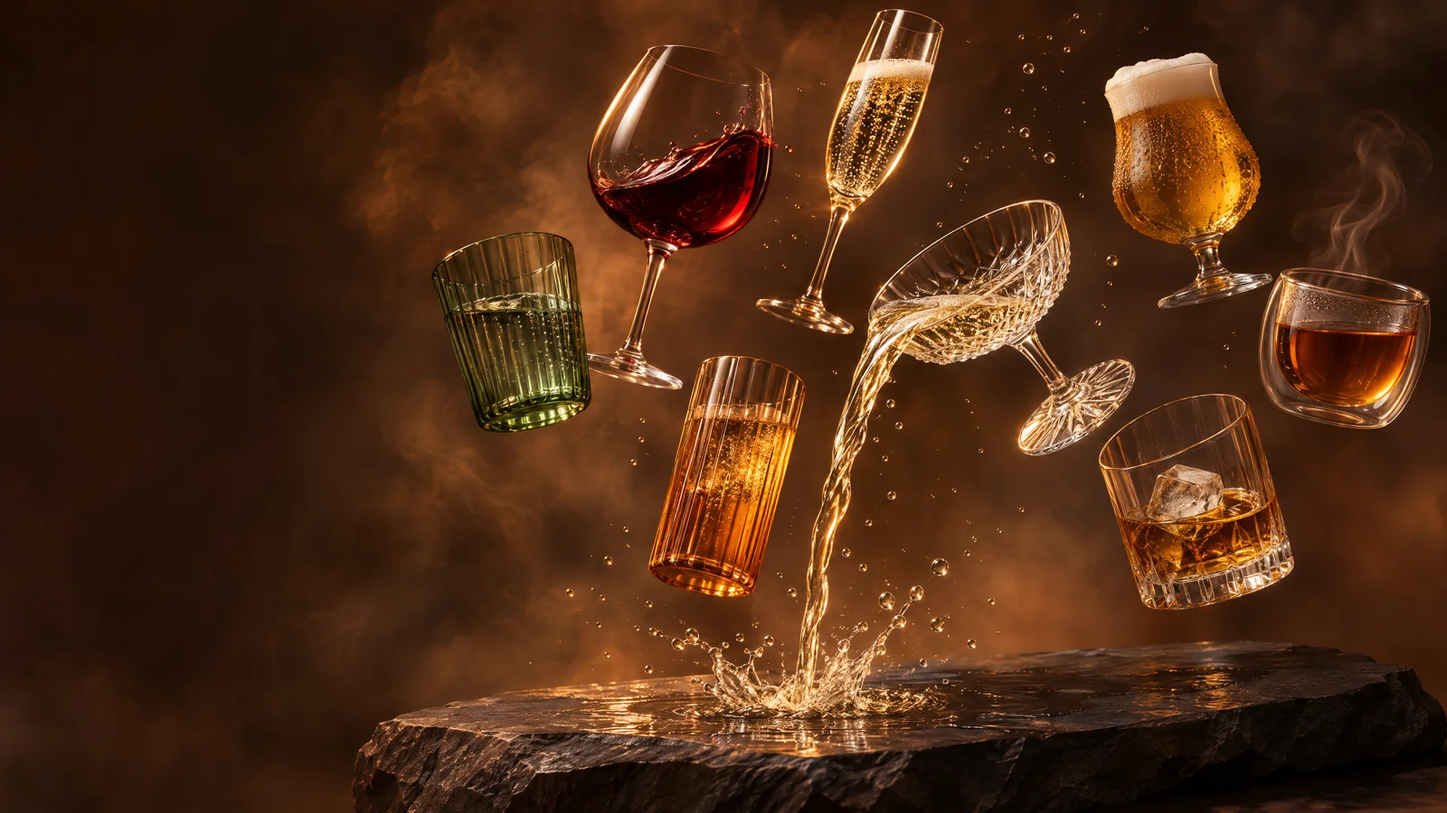
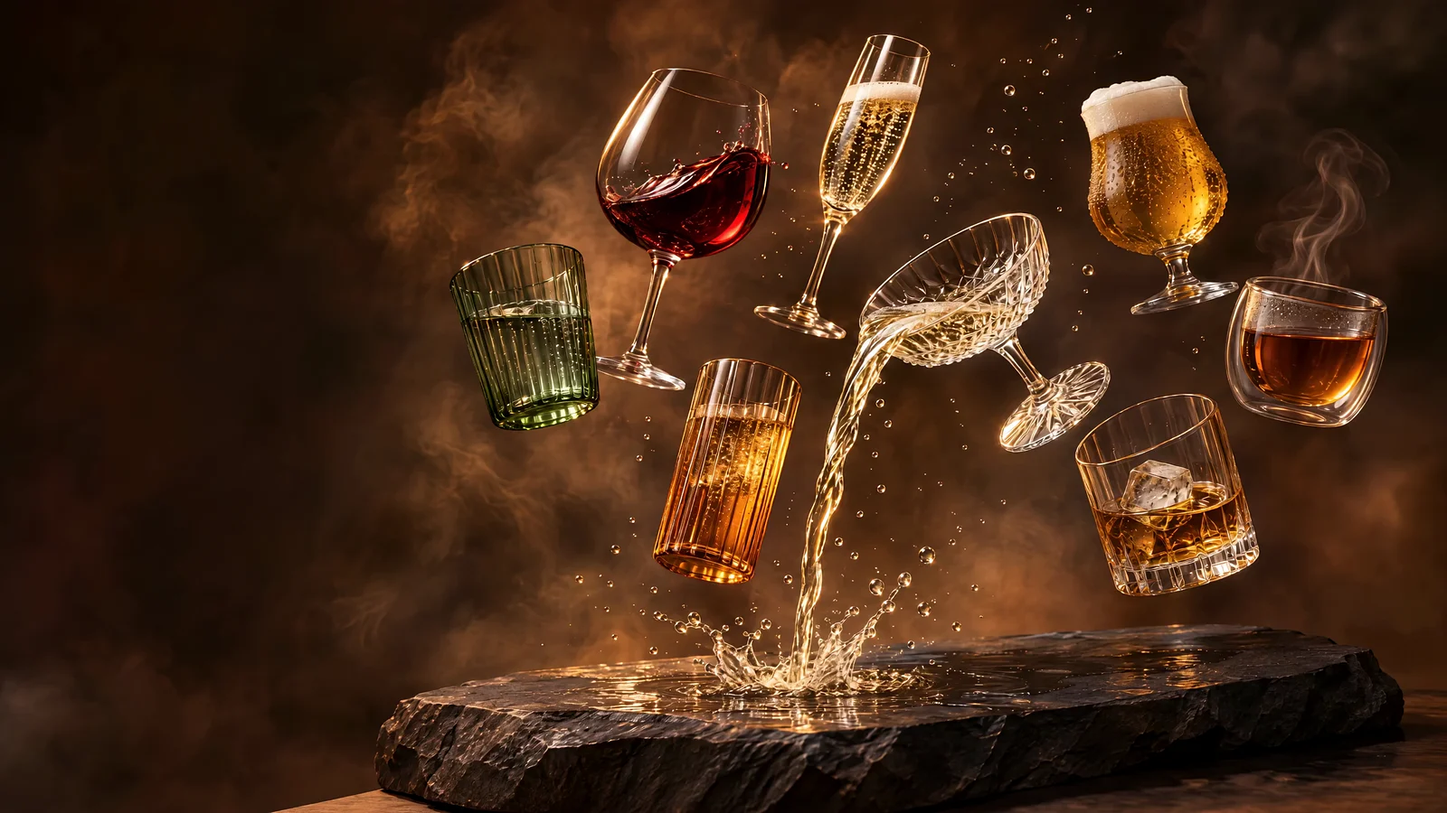
Startbilden tas från filmens första ruta så att inget zoomar vid start
Filmmodellen ramade in scenen lite annorlunda än startbilden. När filmen tonades in såg det ut som en inzoomning. Nu är startbilderna (dator och mobil) gjorda från filmens första ruta.

Claude-Session: https://claude.ai/code/session_01Kh8e8VCmHbvD3TCw4dPuxa

diff --git a/docs/404.html b/docs/404.html
@@ -26,8 +26,8 @@
 <link rel="preconnect" href="https://fonts.googleapis.com">
 <link rel="preconnect" href="https://fonts.gstatic.com" crossorigin>
 <link href="https://fonts.googleapis.com/css2?family=Fraunces:ital,opsz,wght@0,9..144,300;0,9..144,400;0,9..144,500;1,9..144,400&family=Hanken+Grotesk:wght@400;500;600&family=IBM+Plex+Mono:wght@400;500&display=swap" rel="stylesheet">
-<link rel="preload" as="image" href="assets/hero-start-m.webp?v=6" media="(max-aspect-ratio: 1/1)">
-<link rel="preload" as="image" href="assets/hero-start-1600.webp?v=6" imagesrcset="assets/hero-start-1600.webp?v=6 1600w, assets/hero-start.webp?v=6 2688w" imagesizes="(max-aspect-ratio: 16/9) 178vh, 100vw" media="(min-aspect-ratio: 1/1)">
+<link rel="preload" as="image" href="assets/hero-start-m.webp?v=7" media="(max-aspect-ratio: 1/1)">
+<link rel="preload" as="image" href="assets/hero-start-1600.webp?v=7" imagesrcset="assets/hero-start-1600.webp?v=7 1600w, assets/hero-start.webp?v=7 2688w" imagesizes="(max-aspect-ratio: 16/9) 178vh, 100vw" media="(min-aspect-ratio: 1/1)">
 <script>try{if(localStorage.getItem("skal-lang")==="en"){document.documentElement.lang="en";document.documentElement.classList.add("lang-wait")}}catch(e){}</script>
 <script>try{var s=localStorage.getItem("skal-skin");if(s)document.documentElement.dataset.skin=s}catch(e){}</script>
 <script type="application/ld+json">{"@context":"https://schema.org","@type":"Organization","name":"SKÅL & CO","url":"https://adamkajlindberg-22.github.io/Sk-l-Co/","description":"Glas, koppar och karaffer från Europas glasbruk. Visningsversion."}</script>
@@ -72,7 +72,7 @@
 <section id="hero" aria-label="SKÅL & CO">
   <div class="hero-stage">
     <div class="hero-media">
-      <picture><source media="(max-aspect-ratio: 1/1)" srcset="assets/hero-start-m.webp?v=6"><img class="start" src="assets/hero-start-1600.webp?v=6" srcset="assets/hero-start-1600.webp?v=6 1600w, assets/hero-start.webp?v=6 2688w" sizes="(max-aspect-ratio: 16/9) 178vh, 100vw" alt="Åtta olika glas med vin, bubbel, whisky, öl och te svävar i luften medan en kupa häller ut bubbel på en mörk sten" fetchpriority="high"></picture>
+      <picture><source media="(max-aspect-ratio: 1/1)" srcset="assets/hero-start-m.webp?v=7"><img class="start" src="assets/hero-start-1600.webp?v=7" srcset="assets/hero-start-1600.webp?v=7 1600w, assets/hero-start.webp?v=7 2688w" sizes="(max-aspect-ratio: 16/9) 178vh, 100vw" alt="Åtta olika glas med vin, bubbel, whisky, öl och te svävar i luften medan en kupa häller ut bubbel på en mörk sten" fetchpriority="high"></picture>
       <picture><source media="(max-aspect-ratio: 1/1)" srcset="assets/hero-end-m.webp?v=6"><img class="end" src="assets/hero-end.webp?v=6" alt="" aria-hidden="true"></picture>
       <video id="heroVideo" muted playsinline preload="none" aria-hidden="true"></video>
     </div>

diff --git a/docs/glas/anga/index.html b/docs/glas/anga/index.html
@@ -26,8 +26,8 @@
 <link rel="preconnect" href="https://fonts.googleapis.com">
 <link rel="preconnect" href="https://fonts.gstatic.com" crossorigin>
 <link href="https://fonts.googleapis.com/css2?family=Fraunces:ital,opsz,wght@0,9..144,300;0,9..144,400;0,9..144,500;1,9..144,400&family=Hanken+Grotesk:wght@400;500;600&family=IBM+Plex+Mono:wght@400;500&display=swap" rel="stylesheet">
-<link rel="preload" as="image" href="assets/hero-start-m.webp?v=6" media="(max-aspect-ratio: 1/1)">
-<link rel="preload" as="image" href="assets/hero-start-1600.webp?v=6" imagesrcset="assets/hero-start-1600.webp?v=6 1600w, assets/hero-start.webp?v=6 2688w" imagesizes="(max-aspect-ratio: 16/9) 178vh, 100vw" media="(min-aspect-ratio: 1/1)">
+<link rel="preload" as="image" href="assets/hero-start-m.webp?v=7" media="(max-aspect-ratio: 1/1)">
+<link rel="preload" as="image" href="assets/hero-start-1600.webp?v=7" imagesrcset="assets/hero-start-1600.webp?v=7 1600w, assets/hero-start.webp?v=7 2688w" imagesizes="(max-aspect-ratio: 16/9) 178vh, 100vw" media="(min-aspect-ratio: 1/1)">
 <script>try{if(localStorage.getItem("skal-lang")==="en"){document.documentElement.lang="en";document.documentElement.classList.add("lang-wait")}}catch(e){}</script>
 <script>try{var s=localStorage.getItem("skal-skin");if(s)document.documentElement.dataset.skin=s}catch(e){}</script>
 <script type="application/ld+json">{"@context":"https://schema.org","@type":"Organization","name":"SKÅL & CO","url":"https://adamkajlindberg-22.github.io/Sk-l-Co/","description":"Glas, koppar och karaffer från Europas glasbruk. Visningsversion."}</script>
@@ -74,7 +74,7 @@
 <section id="hero" aria-label="SKÅL & CO">
   <div class="hero-stage">
     <div class="hero-media">
-      <picture><source media="(max-aspect-ratio: 1/1)" srcset="assets/hero-start-m.webp?v=6"><img class="start" src="assets/hero-start-1600.webp?v=6" srcset="assets/hero-start-1600.webp?v=6 1600w, assets/hero-start.webp?v=6 2688w" sizes="(max-aspect-ratio: 16/9) 178vh, 100vw" alt="Åtta olika glas med vin, bubbel, whisky, öl och te svävar i luften medan en kupa häller ut bubbel på en mörk sten" fetchpriority="high"></picture>
+      <picture><source media="(max-aspect-ratio: 1/1)" srcset="assets/hero-start-m.webp?v=7"><img class="start" src="assets/hero-start-1600.webp?v=7" srcset="assets/hero-start-1600.webp?v=7 1600w, assets/hero-start.webp?v=7 2688w" sizes="(max-aspect-ratio: 16/9) 178vh, 100vw" alt="Åtta olika glas med vin, bubbel, whisky, öl och te svävar i luften medan en kupa häller ut bubbel på en mörk sten" fetchpriority="high"></picture>
       <picture><source media="(max-aspect-ratio: 1/1)" srcset="assets/hero-end-m.webp?v=6"><img class="end" src="assets/hero-end.webp?v=6" alt="" aria-hidden="true"></picture>
       <video id="heroVideo" muted playsinline preload="none" aria-hidden="true"></video>
     </div>

diff --git a/docs/glas/bolja/index.html b/docs/glas/bolja/index.html
@@ -26,8 +26,8 @@
 <link rel="preconnect" href="https://fonts.googleapis.com">
 <link rel="preconnect" href="https://fonts.gstatic.com" crossorigin>
 <link href="https://fonts.googleapis.com/css2?family=Fraunces:ital,opsz,wght@0,9..144,300;0,9..144,400;0,9..144,500;1,9..144,400&family=Hanken+Grotesk:wght@400;500;600&family=IBM+Plex+Mono:wght@400;500&display=swap" rel="stylesheet">
-<link rel="preload" as="image" href="assets/hero-start-m.webp?v=6" media="(max-aspect-ratio: 1/1)">
-<link rel="preload" as="image" href="assets/hero-start-1600.webp?v=6" imagesrcset="assets/hero-start-1600.webp?v=6 1600w, assets/hero-start.webp?v=6 2688w" imagesizes="(max-aspect-ratio: 16/9) 178vh, 100vw" media="(min-aspect-ratio: 1/1)">
+<link rel="preload" as="image" href="assets/hero-start-m.webp?v=7" media="(max-aspect-ratio: 1/1)">
+<link rel="preload" as="image" href="assets/hero-start-1600.webp?v=7" imagesrcset="assets/hero-start-1600.webp?v=7 1600w, assets/hero-start.webp?v=7 2688w" imagesizes="(max-aspect-ratio: 16/9) 178vh, 100vw" media="(min-aspect-ratio: 1/1)">
 <script>try{if(localStorage.getItem("skal-lang")==="en"){document.documentElement.lang="en";document.documentElement.classList.add("lang-wait")}}catch(e){}</script>
 <script>try{var s=localStorage.getItem("skal-skin");if(s)document.documentElement.dataset.skin=s}catch(e){}</script>
 <script type="application/ld+json">{"@context":"https://schema.org","@type":"Organization","name":"SKÅL & CO","url":"https://adamkajlindberg-22.github.io/Sk-l-Co/","description":"Glas, koppar och karaffer från Europas glasbruk. Visningsversion."}</script>
@@ -74,7 +74,7 @@
 <section id="hero" aria-label="SKÅL & CO">
   <div class="hero-stage">
     <div class="hero-media">
-      <picture><source media="(max-aspect-ratio: 1/1)" srcset="assets/hero-start-m.webp?v=6"><img class="start" src="assets/hero-start-1600.webp?v=6" srcset="assets/hero-start-1600.webp?v=6 1600w, assets/hero-start.webp?v=6 2688w" sizes="(max-aspect-ratio: 16/9) 178vh, 100vw" alt="Åtta olika glas med vin, bubbel, whisky, öl och te svävar i luften medan en kupa häller ut bubbel på en mörk sten" fetchpriority="high"></picture>
+      <picture><source media="(max-aspect-ratio: 1/1)" srcset="assets/hero-start-m.webp?v=7"><img class="start" src="assets/hero-start-1600.webp?v=7" srcset="assets/hero-start-1600.webp?v=7 1600w, assets/hero-start.webp?v=7 2688w" sizes="(max-aspect-ratio: 16/9) 178vh, 100vw" alt="Åtta olika glas med vin, bubbel, whisky, öl och te svävar i luften medan en kupa häller ut bubbel på en mörk sten" fetchpriority="high"></picture>
       <picture><source media="(max-aspect-ratio: 1/1)" srcset="assets/hero-end-m.webp?v=6"><img class="end" src="assets/hero-end.webp?v=6" alt="" aria-hidden="true"></picture>
       <video id="heroVideo" muted playsinline preload="none" aria-hidden="true"></video>
     </div>

diff --git a/docs/glas/boljahigh/index.html b/docs/glas/boljahigh/index.html
@@ -26,8 +26,8 @@
 <link rel="preconnect" href="https://fonts.googleapis.com">
 <link rel="preconnect" href="https://fonts.gstatic.com" crossorigin>
 <link href="https://fonts.googleapis.com/css2?family=Fraunces:ital,opsz,wght@0,9..144,300;0,9..144,400;0,9..144,500;1,9..144,400&family=Hanken+Grotesk:wght@400;500;600&family=IBM+Plex+Mono:wght@400;500&display=swap" rel="stylesheet">
-<link rel="preload" as="image" href="assets/hero-start-m.webp?v=6" media="(max-aspect-ratio: 1/1)">
-<link rel="preload" as="image" href="assets/hero-start-1600.webp?v=6" imagesrcset="assets/hero-start-1600.webp?v=6 1600w, assets/hero-start.webp?v=6 2688w" imagesizes="(max-aspect-ratio: 16/9) 178vh, 100vw" media="(min-aspect-ratio: 1/1)">
+<link rel="preload" as="image" href="assets/hero-start-m.webp?v=7" media="(max-aspect-ratio: 1/1)">
+<link rel="preload" as="image" href="assets/hero-start-1600.webp?v=7" imagesrcset="assets/hero-start-1600.webp?v=7 1600w, assets/hero-start.webp?v=7 2688w" imagesizes="(max-aspect-ratio: 16/9) 178vh, 100vw" media="(min-aspect-ratio: 1/1)">
 <script>try{if(localStorage.getItem("skal-lang")==="en"){document.documentElement.lang="en";document.documentElement.classList.add("lang-wait")}}catch(e){}</script>
 <script>try{var s=localStorage.getItem("skal-skin");if(s)document.documentElement.dataset.skin=s}catch(e){}</script>
 <script type="application/ld+json">{"@context":"https://schema.org","@type":"Organization","name":"SKÅL & CO","url":"https://adamkajlindberg-22.github.io/Sk-l-Co/","description":"Glas, koppar och karaffer från Europas glasbruk. Visningsversion."}</script>
@@ -74,7 +74,7 @@
 <section id="hero" aria-label="SKÅL & CO">
   <div class="hero-stage">
     <div class="hero-media">
-      <picture><source media="(max-aspect-ratio: 1/1)" srcset="assets/hero-start-m.webp?v=6"><img class="start" src="assets/hero-start-1600.webp?v=6" srcset="assets/hero-start-1600.webp?v=6 1600w, assets/hero-start.webp?v=6 2688w" sizes="(max-aspect-ratio: 16/9) 178vh, 100vw" alt="Åtta olika glas med vin, bubbel, whisky, öl och te svävar i luften medan en kupa häller ut bubbel på en mörk sten" fetchpriority="high"></picture>
+      <picture><source media="(max-aspect-ratio: 1/1)" srcset="assets/hero-start-m.webp?v=7"><img class="start" src="assets/hero-start-1600.webp?v=7" srcset="assets/hero-start-1600.webp?v=7 1600w, assets/hero-start.webp?v=7 2688w" sizes="(max-aspect-ratio: 16/9) 178vh, 100vw" alt="Åtta olika glas med vin, bubbel, whisky, öl och te svävar i luften medan en kupa häller ut bubbel på en mörk sten" fetchpriority="high"></picture>
       <picture><source media="(max-aspect-ratio: 1/1)" srcset="assets/hero-end-m.webp?v=6"><img class="end" src="assets/hero-end.webp?v=6" alt="" aria-hidden="true"></picture>
       <video id="heroVideo" muted playsinline preload="none" aria-hidden="true"></video>
     </div>

diff --git a/docs/glas/bourgogne/index.html b/docs/glas/bourgogne/index.html
@@ -26,8 +26,8 @@
 <link rel="preconnect" href="https://fonts.googleapis.com">
 <link rel="preconnect" href="https://fonts.gstatic.com" crossorigin>
 <link href="https://fonts.googleapis.com/css2?family=Fraunces:ital,opsz,wght@0,9..144,300;0,9..144,400;0,9..144,500;1,9..144,400&family=Hanken+Grotesk:wght@400;500;600&family=IBM+Plex+Mono:wght@400;500&display=swap" rel="stylesheet">
-<link rel="preload" as="image" href="assets/hero-start-m.webp?v=6" media="(max-aspect-ratio: 1/1)">
-<link rel="preload" as="image" href="assets/hero-start-1600.webp?v=6" imagesrcset="assets/hero-start-1600.webp?v=6 1600w, assets/hero-start.webp?v=6 2688w" imagesizes="(max-aspect-ratio: 16/9) 178vh, 100vw" media="(min-aspect-ratio: 1/1)">
+<link rel="preload" as="image" href="assets/hero-start-m.webp?v=7" media="(max-aspect-ratio: 1/1)">
+<link rel="preload" as="image" href="assets/hero-start-1600.webp?v=7" imagesrcset="assets/hero-start-1600.webp?v=7 1600w, assets/hero-start.webp?v=7 2688w" imagesizes="(max-aspect-ratio: 16/9) 178vh, 100vw" media="(min-aspect-ratio: 1/1)">
 <script>try{if(localStorage.getItem("skal-lang")==="en"){document.documentElement.lang="en";document.documentElement.classList.add("lang-wait")}}catch(e){}</script>
 <script>try{var s=localStorage.getItem("skal-skin");if(s)document.documentElement.dataset.skin=s}catch(e){}</script>
 <script type="application/ld+json">{"@context":"https://schema.org","@type":"Organization","name":"SKÅL & CO","url":"https://adamkajlindberg-22.github.io/Sk-l-Co/","description":"Glas, koppar och karaffer från Europas glasbruk. Visningsversion."}</script>
@@ -74,7 +74,7 @@
 <section id="hero" aria-label="SKÅL & CO">
   <div class="hero-stage">
     <div class="hero-media">
-      <picture><source media="(max-aspect-ratio: 1/1)" srcset="assets/hero-start-m.webp?v=6"><img class="start" src="assets/hero-start-1600.webp?v=6" srcset="assets/hero-start-1600.webp?v=6 1600w, assets/hero-start.webp?v=6 2688w" sizes="(max-aspect-ratio: 16/9) 178vh, 100vw" alt="Åtta olika glas med vin, bubbel, whisky, öl och te svävar i luften medan en kupa häller ut bubbel på en mörk sten" fetchpriority="high"></picture>
+      <picture><source media="(max-aspect-ratio: 1/1)" srcset="assets/hero-start-m.webp?v=7"><img class="start" src="assets/hero-start-1600.webp?v=7" srcset="assets/hero-start-1600.webp?v=7 1600w, assets/hero-start.webp?v=7 2688w" sizes="(max-aspect-ratio: 16/9) 178vh, 100vw" alt="Åtta olika glas med vin, bubbel, whisky, öl och te svävar i luften medan en kupa häller ut bubbel på en mörk sten" fetchpriority="high"></picture>
       <picture><source media="(max-aspect-ratio: 1/1)" srcset="assets/hero-end-m.webp?v=6"><img class="end" src="assets/hero-end.webp?v=6" alt="" aria-hidden="true"></picture>
       <video id="heroVideo" muted playsinline preload="none" aria-hidden="true"></video>
     </div>

diff --git a/docs/glas/coupe/index.html b/docs/glas/coupe/index.html
@@ -26,8 +26,8 @@
 <link rel="preconnect" href="https://fonts.googleapis.com">
 <link rel="preconnect" href="https://fonts.gstatic.com" crossorigin>
 <link href="https://fonts.googleapis.com/css2?family=Fraunces:ital,opsz,wght@0,9..144,300;0,9..144,400;0,9..144,500;1,9..144,400&family=Hanken+Grotesk:wght@400;500;600&family=IBM+Plex+Mono:wght@400;500&display=swap" rel="stylesheet">
-<link rel="preload" as="image" href="assets/hero-start-m.webp?v=6" media="(max-aspect-ratio: 1/1)">
-<link rel="preload" as="image" href="assets/hero-start-1600.webp?v=6" imagesrcset="assets/hero-start-1600.webp?v=6 1600w, assets/hero-start.webp?v=6 2688w" imagesizes="(max-aspect-ratio: 16/9) 178vh, 100vw" media="(min-aspect-ratio: 1/1)">
+<link rel="preload" as="image" href="assets/hero-start-m.webp?v=7" media="(max-aspect-ratio: 1/1)">
+<link rel="preload" as="image" href="assets/hero-start-1600.webp?v=7" imagesrcset="assets/hero-start-1600.webp?v=7 1600w, assets/hero-start.webp?v=7 2688w" imagesizes="(max-aspect-ratio: 16/9) 178vh, 100vw" media="(min-aspect-ratio: 1/1)">
 <script>try{if(localStorage.getItem("skal-lang")==="en"){document.documentElement.lang="en";document.documentElement.classList.add("lang-wait")}}catch(e){}</script>
 <script>try{var s=localStorage.getItem("skal-skin");if(s)document.documentElement.dataset.skin=s}catch(e){}</script>
 <script type="application/ld+json">{"@context":"https://schema.org","@type":"Organization","name":"SKÅL & CO","url":"https://adamkajlindberg-22.github.io/Sk-l-Co/","description":"Glas, koppar och karaffer från Europas glasbruk. Visningsversion."}</script>
@@ -74,7 +74,7 @@
 <section id="hero" aria-label="SKÅL & CO">
   <div class="hero-stage">
     <div class="hero-media">
-      <picture><source media="(max-aspect-ratio: 1/1)" srcset="assets/hero-start-m.webp?v=6"><img class="start" src="assets/hero-start-1600.webp?v=6" srcset="assets/hero-start-1600.webp?v=6 1600w, assets/hero-start.webp?v=6 2688w" sizes="(max-aspect-ratio: 16/9) 178vh, 100vw" alt="Åtta olika glas med vin, bubbel, whisky, öl och te svävar i luften medan en kupa häller ut bubbel på en mörk sten" fetchpriority="high"></picture>
+      <picture><source media="(max-aspect-ratio: 1/1)" srcset="assets/hero-start-m.webp?v=7"><img class="start" src="assets/hero-start-1600.webp?v=7" srcset="assets/hero-start-1600.webp?v=7 1600w, assets/hero-start.webp?v=7 2688w" sizes="(max-aspect-ratio: 16/9) 178vh, 100vw" alt="Åtta olika glas med vin, bubbel, whisky, öl och te svävar i luften medan en kupa häller ut bubbel på en mörk sten" fetchpriority="high"></picture>
       <picture><source media="(max-aspect-ratio: 1/1)" srcset="assets/hero-end-m.webp?v=6"><img class="end" src="assets/hero-end.webp?v=6" alt="" aria-hidden="true"></picture>
       <video id="heroVideo" muted playsinline preload="none" aria-hidden="true"></video>
     </div>

diff --git a/docs/glas/humle/index.html b/docs/glas/humle/index.html
@@ -26,8 +26,8 @@
 <link rel="preconnect" href="https://fonts.googleapis.com">
 <link rel="preconnect" href="https://fonts.gstatic.com" crossorigin>
 <link href="https://fonts.googleapis.com/css2?family=Fraunces:ital,opsz,wght@0,9..144,300;0,9..144,400;0,9..144,500;1,9..144,400&family=Hanken+Grotesk:wght@400;500;600&family=IBM+Plex+Mono:wght@400;500&display=swap" rel="stylesheet">
-<link rel="preload" as="image" href="assets/hero-start-m.webp?v=6" media="(max-aspect-ratio: 1/1)">
-<link rel="preload" as="image" href="assets/hero-start-1600.webp?v=6" imagesrcset="assets/hero-start-1600.webp?v=6 1600w, assets/hero-start.webp?v=6 2688w" imagesizes="(max-aspect-ratio: 16/9) 178vh, 100vw" media="(min-aspect-ratio: 1/1)">
+<link rel="preload" as="image" href="assets/hero-start-m.webp?v=7" media="(max-aspect-ratio: 1/1)">
+<link rel="preload" as="image" href="assets/hero-start-1600.webp?v=7" imagesrcset="assets/hero-start-1600.webp?v=7 1600w, assets/hero-start.webp?v=7 2688w" imagesizes="(max-aspect-ratio: 16/9) 178vh, 100vw" media="(min-aspect-ratio: 1/1)">
 <script>try{if(localStorage.getItem("skal-lang")==="en"){document.documentElement.lang="en";document.documentElement.classList.add("lang-wait")}}catch(e){}</script>
 <script>try{var s=localStorage.getItem("skal-skin");if(s)document.documentElement.dataset.skin=s}catch(e){}</script>
 <script type="application/ld+json">{"@context":"https://schema.org","@type":"Organization","name":"SKÅL & CO","url":"https://adamkajlindberg-22.github.io/Sk-l-Co/","description":"Glas, koppar och karaffer från Europas glasbruk. Visningsversion."}</script>
@@ -74,7 +74,7 @@
 <section id="hero" aria-label="SKÅL & CO">
   <div class="hero-stage">
     <div class="hero-media">
-      <picture><source media="(max-aspect-ratio: 1/1)" srcset="assets/hero-start-m.webp?v=6"><img class="start" src="assets/hero-start-1600.webp?v=6" srcset="assets/hero-start-1600.webp?v=6 1600w, assets/hero-start.webp?v=6 2688w" sizes="(max-aspect-ratio: 16/9) 178vh, 100vw" alt="Åtta olika glas med vin, bubbel, whisky, öl och te svävar i luften medan en kupa häller ut bubbel på en mörk sten" fetchpriority="high"></picture>
+      <picture><source media="(max-aspect-ratio: 1/1)" srcset="assets/hero-start-m.webp?v=7"><img class="start" src="assets/hero-start-1600.webp?v=7" srcset="assets/hero-start-1600.webp?v=7 1600w, assets/hero-start.webp?v=7 2688w" sizes="(max-aspect-ratio: 16/9) 178vh, 100vw" alt="Åtta olika glas med vin, bubbel, whisky, öl och te svävar i luften medan en kupa häller ut bubbel på en mörk sten" fetchpriority="high"></picture>
       <picture><source media="(max-aspect-ratio: 1/1)" srcset="assets/hero-end-m.webp?v=6"><img class="end" src="assets/hero-end.webp?v=6" alt="" aria-hidden="true"></picture>
       <video id="heroVideo" muted playsinline preload="none" aria-hidden="true"></video>
     </div>

diff --git a/docs/glas/kaffe/index.html b/docs/glas/kaffe/index.html
@@ -26,8 +26,8 @@
 <link rel="preconnect" href="https://fonts.googleapis.com">
 <link rel="preconnect" href="https://fonts.gstatic.com" crossorigin>
 <link href="https://fonts.googleapis.com/css2?family=Fraunces:ital,opsz,wght@0,9..144,300;0,9..144,400;0,9..144,500;1,9..144,400&family=Hanken+Grotesk:wght@400;500;600&family=IBM+Plex+Mono:wght@400;500&display=swap" rel="stylesheet">
-<link rel="preload" as="image" href="assets/hero-start-m.webp?v=6" media="(max-aspect-ratio: 1/1)">
-<link rel="preload" as="image" href="assets/hero-start-1600.webp?v=6" imagesrcset="assets/hero-start-1600.webp?v=6 1600w, assets/hero-start.webp?v=6 2688w" imagesizes="(max-aspect-ratio: 16/9) 178vh, 100vw" media="(min-aspect-ratio: 1/1)">
+<link rel="preload" as="image" href="assets/hero-start-m.webp?v=7" media="(max-aspect-ratio: 1/1)">
+<link rel="preload" as="image" href="assets/hero-start-1600.webp?v=7" imagesrcset="assets/hero-start-1600.webp?v=7 1600w, assets/hero-start.webp?v=7 2688w" imagesizes="(max-aspect-ratio: 16/9) 178vh, 100vw" media="(min-aspect-ratio: 1/1)">
 <script>try{if(localStorage.getItem("skal-lang")==="en"){document.documentElement.lang="en";document.documentElement.classList.add("lang-wait")}}catch(e){}</script>
 <script>try{var s=localStorage.getItem("skal-skin");if(s)document.documentElement.dataset.skin=s}catch(e){}</script>
 <script type="application/ld+json">{"@context":"https://schema.org","@type":"Organization","name":"SKÅL & CO","url":"https://adamkajlindberg-22.github.io/Sk-l-Co/","description":"Glas, koppar och karaffer från Europas glasbruk. Visningsversion."}</script>
@@ -74,7 +74,7 @@
 <section id="hero" aria-label="SKÅL & CO">
   <div class="hero-stage">
     <div class="hero-media">
-      <picture><source media="(max-aspect-ratio: 1/1)" srcset="assets/hero-start-m.webp?v=6"><img class="start" src="assets/hero-start-1600.webp?v=6" srcset="assets/hero-start-1600.webp?v=6 1600w, assets/hero-start.webp?v=6 2688w" sizes="(max-aspect-ratio: 16/9) 178vh, 100vw" alt="Åtta olika glas med vin, bubbel, whisky, öl och te svävar i luften medan en kupa häller ut bubbel på en mörk sten" fetchpriority="high"></picture>
+      <picture><source media="(max-aspect-ratio: 1/1)" srcset="assets/hero-start-m.webp?v=7"><img class="start" src="assets/hero-start-1600.webp?v=7" srcset="assets/hero-start-1600.webp?v=7 1600w, assets/hero-start.webp?v=7 2688w" sizes="(max-aspect-ratio: 16/9) 178vh, 100vw" alt="Åtta olika glas med vin, bubbel, whisky, öl och te svävar i luften medan en kupa häller ut bubbel på en mörk sten" fetchpriority="high"></picture>
       <picture><source media="(max-aspect-ratio: 1/1)" srcset="assets/hero-end-m.webp?v=6"><img class="end" src="assets/hero-end.webp?v=6" alt="" aria-hidden="true"></picture>
       <video id="heroVideo" muted playsinline preload="none" aria-hidden="true"></video>
     </div>

diff --git a/docs/glas/karaff/index.html b/docs/glas/karaff/index.html
@@ -26,8 +26,8 @@
 <link rel="preconnect" href="https://fonts.googleapis.com">
 <link rel="preconnect" href="https://fonts.gstatic.com" crossorigin>
 <link href="https://fonts.googleapis.com/css2?family=Fraunces:ital,opsz,wght@0,9..144,300;0,9..144,400;0,9..144,500;1,9..144,400&family=Hanken+Grotesk:wght@400;500;600&family=IBM+Plex+Mono:wght@400;500&display=swap" rel="stylesheet">
-<link rel="preload" as="image" href="assets/hero-start-m.webp?v=6" media="(max-aspect-ratio: 1/1)">
-<link rel="preload" as="image" href="assets/hero-start-1600.webp?v=6" imagesrcset="assets/hero-start-1600.webp?v=6 1600w, assets/hero-start.webp?v=6 2688w" imagesizes="(max-aspect-ratio: 16/9) 178vh, 100vw" media="(min-aspect-ratio: 1/1)">
+<link rel="preload" as="image" href="assets/hero-start-m.webp?v=7" media="(max-aspect-ratio: 1/1)">
+<link rel="preload" as="image" href="assets/hero-start-1600.webp?v=7" imagesrcset="assets/hero-start-1600.webp?v=7 1600w, assets/hero-start.webp?v=7 2688w" imagesizes="(max-aspect-ratio: 16/9) 178vh, 100vw" media="(min-aspect-ratio: 1/1)">
 <script>try{if(localStorage.getItem("skal-lang")==="en"){document.documentElement.lang="en";document.documentElement.classList.add("lang-wait")}}catch(e){}</script>
 <script>try{var s=localStorage.getItem("skal-skin");if(s)document.documentElement.dataset.skin=s}catch(e){}</script>
 <script type="application/ld+json">{"@context":"https://schema.org","@type":"Organization","name":"SKÅL & CO","url":"https://adamkajlindberg-22.github.io/Sk-l-Co/","description":"Glas, koppar och karaffer från Europas glasbruk. Visningsversion."}</script>
@@ -74,7 +74,7 @@
 <section id="hero" aria-label="SKÅL & CO">
   <div class="hero-stage">
     <div class="hero-media">
-      <picture><source media="(max-aspect-ratio: 1/1)" srcset="assets/hero-start-m.webp?v=6"><img class="start" src="assets/hero-start-1600.webp?v=6" srcset="assets/hero-start-1600.webp?v=6 1600w, assets/hero-start.webp?v=6 2688w" sizes="(max-aspect-ratio: 16/9) 178vh, 100vw" alt="Åtta olika glas med vin, bubbel, whisky, öl och te svävar i luften medan en kupa häller ut bubbel på en mörk sten" fetchpriority="high"></picture>
+      <picture><source media="(max-aspect-ratio: 1/1)" srcset="assets/hero-start-m.webp?v=7"><img class="start" src="assets/hero-start-1600.webp?v=7" srcset="assets/hero-start-1600.webp?v=7 1600w, assets/hero-start.webp?v=7 2688w" sizes="(max-aspect-ratio: 16/9) 178vh, 100vw" alt="Åtta olika glas med vin, bubbel, whisky, öl och te svävar i luften medan en kupa häller ut bubbel på en mörk sten" fetchpriority="high"></picture>
       <picture><source media="(max-aspect-ratio: 1/1)" srcset="assets/hero-end-m.webp?v=6"><img class="end" src="assets/hero-end.webp?v=6" alt="" aria-hidden="true"></picture>
       <video id="heroVideo" muted playsinline preload="none" aria-hidden="true"></video>
     </div>

diff --git a/docs/glas/nora/index.html b/docs/glas/nora/index.html
@@ -26,8 +26,8 @@
 <link rel="preconnect" href="https://fonts.googleapis.com">
 <link rel="preconnect" href="https://fonts.gstatic.com" crossorigin>
 <link href="https://fonts.googleapis.com/css2?family=Fraunces:ital,opsz,wght@0,9..144,300;0,9..144,400;0,9..144,500;1,9..144,400&family=Hanken+Grotesk:wght@400;500;600&family=IBM+Plex+Mono:wght@400;500&display=swap" rel="stylesheet">
-<link rel="preload" as="image" href="assets/hero-start-m.webp?v=6" media="(max-aspect-ratio: 1/1)">
-<link rel="preload" as="image" href="assets/hero-start-1600.webp?v=6" imagesrcset="assets/hero-start-1600.webp?v=6 1600w, assets/hero-start.webp?v=6 2688w" imagesizes="(max-aspect-ratio: 16/9) 178vh, 100vw" media="(min-aspect-ratio: 1/1)">
+<link rel="preload" as="image" href="assets/hero-start-m.webp?v=7" media="(max-aspect-ratio: 1/1)">
+<link rel="preload" as="image" href="assets/hero-start-1600.webp?v=7" imagesrcset="assets/hero-start-1600.webp?v=7 1600w, assets/hero-start.webp?v=7 2688w" imagesizes="(max-aspect-ratio: 16/9) 178vh, 100vw" media="(min-aspect-ratio: 1/1)">
 <script>try{if(localStorage.getItem("skal-lang")==="en"){document.documentElement.lang="en";document.documentElement.classList.add("lang-wait")}}catch(e){}</script>
 <script>try{var s=localStorage.getItem("skal-skin");if(s)document.documentElement.dataset.skin=s}catch(e){}</script>
 <script type="application/ld+json">{"@context":"https://schema.org","@type":"Organization","name":"SKÅL & CO","url":"https://adamkajlindberg-22.github.io/Sk-l-Co/","description":"Glas, koppar och karaffer från Europas glasbruk. Visningsversion."}</script>
@@ -74,7 +74,7 @@
 <section id="hero" aria-label="SKÅL & CO">
   <div class="hero-stage">
     <div class="hero-media">
-      <picture><source media="(max-aspect-ratio: 1/1)" srcset="assets/hero-start-m.webp?v=6"><img class="start" src="assets/hero-start-1600.webp?v=6" srcset="assets/hero-start-1600.webp?v=6 1600w, assets/hero-start.webp?v=6 2688w" sizes="(max-aspect-ratio: 16/9) 178vh, 100vw" alt="Åtta olika glas med vin, bubbel, whisky, öl och te svävar i luften medan en kupa häller ut bubbel på en mörk sten" fetchpriority="high"></picture>
+      <picture><source media="(max-aspect-ratio: 1/1)" srcset="assets/hero-start-m.webp?v=7"><img class="start" src="assets/hero-start-1600.webp?v=7" srcset="assets/hero-start-1600.webp?v=7 1600w, assets/hero-start.webp?v=7 2688w" sizes="(max-aspect-ratio: 16/9) 178vh, 100vw" alt="Åtta olika glas med vin, bubbel, whisky, öl och te svävar i luften medan en kupa häller ut bubbel på en mörk sten" fetchpriority="high"></picture>
       <picture><source media="(max-aspect-ratio: 1/1)" srcset="assets/hero-end-m.webp?v=6"><img class="end" src="assets/hero-end.webp?v=6" alt="" aria-hidden="true"></picture>
       <video id="heroVideo" muted playsinline preload="none" aria-hidden="true"></video>
     </div>

diff --git a/docs/glas/perla/index.html b/docs/glas/perla/index.html
@@ -26,8 +26,8 @@
 <link rel="preconnect" href="https://fonts.googleapis.com">
 <link rel="preconnect" href="https://fonts.gstatic.com" crossorigin>
 <link href="https://fonts.googleapis.com/css2?family=Fraunces:ital,opsz,wght@0,9..144,300;0,9..144,400;0,9..144,500;1,9..144,400&family=Hanken+Grotesk:wght@400;500;600&family=IBM+Plex+Mono:wght@400;500&display=swap" rel="stylesheet">
-<link rel="preload" as="image" href="assets/hero-start-m.webp?v=6" media="(max-aspect-ratio: 1/1)">
-<link rel="preload" as="image" href="assets/hero-start-1600.webp?v=6" imagesrcset="assets/hero-start-1600.webp?v=6 1600w, assets/hero-start.webp?v=6 2688w" imagesizes="(max-aspect-ratio: 16/9) 178vh, 100vw" media="(min-aspect-ratio: 1/1)">
+<link rel="preload" as="image" href="assets/hero-start-m.webp?v=7" media="(max-aspect-ratio: 1/1)">
+<link rel="preload" as="image" href="assets/hero-start-1600.webp?v=7" imagesrcset="assets/hero-start-1600.webp?v=7 1600w, assets/hero-start.webp?v=7 2688w" imagesizes="(max-aspect-ratio: 16/9) 178vh, 100vw" media="(min-aspect-ratio: 1/1)">
 <script>try{if(localStorage.getItem("skal-lang")==="en"){document.documentElement.lang="en";document.documentElement.classList.add("lang-wait")}}catch(e){}</script>
 <script>try{var s=localStorage.getItem("skal-skin");if(s)document.documentElement.dataset.skin=s}catch(e){}</script>
 <script type="application/ld+json">{"@context":"https://schema.org","@type":"Organization","name":"SKÅL & CO","url":"https://adamkajlindberg-22.github.io/Sk-l-Co/","description":"Glas, koppar och karaffer från Europas glasbruk. Visningsversion."}</script>
@@ -74,7 +74,7 @@
 <section id="hero" aria-label="SKÅL & CO">
   <div class="hero-stage">
     <div class="hero-media">
-      <picture><source media="(max-aspect-ratio: 1/1)" srcset="assets/hero-start-m.webp?v=6"><img class="start" src="assets/hero-start-1600.webp?v=6" srcset="assets/hero-start-1600.webp?v=6 1600w, assets/hero-start.webp?v=6 2688w" sizes="(max-aspect-ratio: 16/9) 178vh, 100vw" alt="Åtta olika glas med vin, bubbel, whisky, öl och te svävar i luften medan en kupa häller ut bubbel på en mörk sten" fetchpriority="high"></picture>
+      <picture><source media="(max-aspect-ratio: 1/1)" srcset="assets/hero-start-m.webp?v=7"><img class="start" src="assets/hero-start-1600.webp?v=7" srcset="assets/hero-start-1600.webp?v=7 1600w, assets/hero-start.webp?v=7 2688w" sizes="(max-aspect-ratio: 16/9) 178vh, 100vw" alt="Åtta olika glas med vin, bubbel, whisky, öl och te svävar i luften medan en kupa häller ut bubbel på en mörk sten" fetchpriority="high"></picture>
       <picture><source media="(max-aspect-ratio: 1/1)" srcset="assets/hero-end-m.webp?v=6"><img class="end" src="assets/hero-end.webp?v=6" alt="" aria-hidden="true"></picture>
       <video id="heroVideo" muted playsinline preload="none" aria-hidden="true"></video>
     </div>

diff --git a/docs/glas/svala/index.html b/docs/glas/svala/index.html
@@ -26,8 +26,8 @@
 <link rel="preconnect" href="https://fonts.googleapis.com">
 <link rel="preconnect" href="https://fonts.gstatic.com" crossorigin>
 <link href="https://fonts.googleapis.com/css2?family=Fraunces:ital,opsz,wght@0,9..144,300;0,9..144,400;0,9..144,500;1,9..144,400&family=Hanken+Grotesk:wght@400;500;600&family=IBM+Plex+Mono:wght@400;500&display=swap" rel="stylesheet">
-<link rel="preload" as="image" href="assets/hero-start-m.webp?v=6" media="(max-aspect-ratio: 1/1)">
-<link rel="preload" as="image" href="assets/hero-start-1600.webp?v=6" imagesrcset="assets/hero-start-1600.webp?v=6 1600w, assets/hero-start.webp?v=6 2688w" imagesizes="(max-aspect-ratio: 16/9) 178vh, 100vw" media="(min-aspect-ratio: 1/1)">
+<link rel="preload" as="image" href="assets/hero-start-m.webp?v=7" media="(max-aspect-ratio: 1/1)">
+<link rel="preload" as="image" href="assets/hero-start-1600.webp?v=7" imagesrcset="assets/hero-start-1600.webp?v=7 1600w, assets/hero-start.webp?v=7 2688w" imagesizes="(max-aspect-ratio: 16/9) 178vh, 100vw" media="(min-aspect-ratio: 1/1)">
 <script>try{if(localStorage.getItem("skal-lang")==="en"){document.documentElement.lang="en";document.documentElement.classList.add("lang-wait")}}catch(e){}</script>
 <script>try{var s=localStorage.getItem("skal-skin");if(s)document.documentElement.dataset.skin=s}catch(e){}</script>
 <script type="application/ld+json">{"@context":"https://schema.org","@type":"Organization","name":"SKÅL & CO","url":"https://adamkajlindberg-22.github.io/Sk-l-Co/","description":"Glas, koppar och karaffer från Europas glasbruk. Visningsversion."}</script>
@@ -74,7 +74,7 @@
 <section id="hero" aria-label="SKÅL & CO">
   <div class="hero-stage">
     <div class="hero-media">
-      <picture><source media="(max-aspect-ratio: 1/1)" srcset="assets/hero-start-m.webp?v=6"><img class="start" src="assets/hero-start-1600.webp?v=6" srcset="assets/hero-start-1600.webp?v=6 1600w, assets/hero-start.webp?v=6 2688w" sizes="(max-aspect-ratio: 16/9) 178vh, 100vw" alt="Åtta olika glas med vin, bubbel, whisky, öl och te svävar i luften medan en kupa häller ut bubbel på en mörk sten" fetchpriority="high"></picture>
+      <picture><source media="(max-aspect-ratio: 1/1)" srcset="assets/hero-start-m.webp?v=7"><img class="start" src="assets/hero-start-1600.webp?v=7" srcset="assets/hero-start-1600.webp?v=7 1600w, assets/hero-start.webp?v=7 2688w" sizes="(max-aspect-ratio: 16/9) 178vh, 100vw" alt="Åtta olika glas med vin, bubbel, whisky, öl och te svävar i luften medan en kupa häller ut bubbel på en mörk sten" fetchpriority="high"></picture>
       <picture><source media="(max-aspect-ratio: 1/1)" srcset="assets/hero-end-m.webp?v=6"><img class="end" src="assets/hero-end.webp?v=6" alt="" aria-hidden="true"></picture>
       <video id="heroVideo" muted playsinline preload="none" aria-hidden="true"></video>
     </div>
